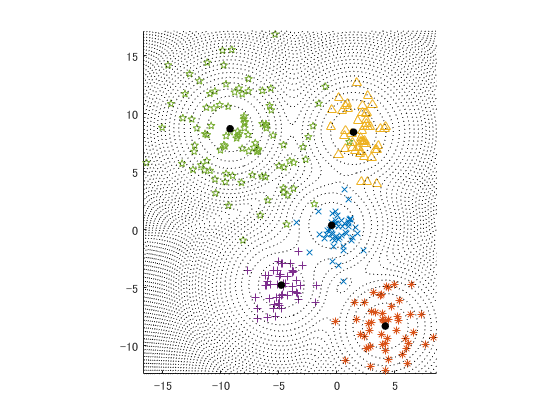
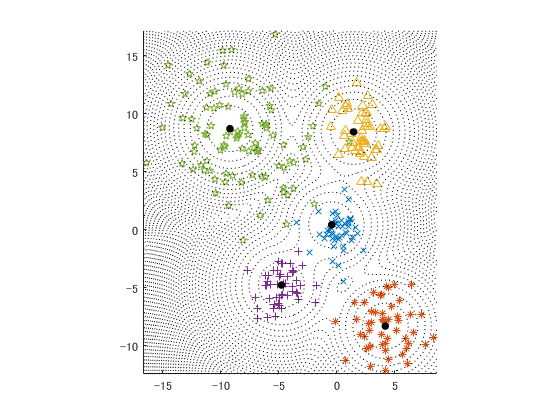
update quad_grad quad_val

diff --git a/plot_clustering.m b/plot_clustering.m
@@ -4,8 +4,8 @@ nu = 60;
 c = 5;
 h = 10;
 
-max_func.val = @max_val;
-max_func.grad = @max_grad;
+% max_func.val = @max_val;
+% max_func.grad = @max_grad;
 
 % max_func.val = @(X) extnorm_val(X,nu);
 % max_func.grad = @(X) extnorm_grad(X,nu);
@@ -13,22 +13,25 @@ max_func.grad = @max_grad;
 % max_func.val = @(X) entro_val(X,nu);
 % max_func.grad = @(X) entro_grad(X,nu);
 
-% max_func.val = @(X) quad_val(X,nu);
-% max_func.grad = @(X) quad_grad(X,nu);
+max_func.val = @(X) quad_val(X,nu);
+max_func.grad = @(X) quad_grad(X,nu);
 
 symb = ['x' '*' '^' '+' 'p'];
 
 best_obj = inf;
 best_V = zeros(size(X,2),c);
+best_misc = struct();
 for i=1:h
     [V,obj,misc] = c_means(X,c,max_func);
     if obj < best_obj
         best_obj = obj;
         best_V = V;
+        best_misc = misc;
     end
 end
 obj = best_obj;
 V = best_V;
+misc = best_misc;
 
 figure; hold on; axis equal;
 

diff --git a/plot_max_function.m b/plot_max_function.m
@@ -1,12 +1,12 @@
-nu = 2;
+nu = 60;
 
 z1 = linspace(-100,0);
 z2 = linspace(-100,0);
 [Z1,Z2] = meshgrid(z1,z2);
 Z = [Z1(:) Z2(:)];
 % g = entro_val(Z',nu);
-g = extnorm_val(Z',nu);
-% g = quad_val(Z',nu);
+% g = extnorm_val(Z',nu);
+g = quad_val(Z',nu);
 
 figure;
 contour(Z1, Z2, reshape(g,size(Z1)), 10,'Color', 'k','ShowText','on');

diff --git a/quad_grad.m b/quad_grad.m
@@ -3,6 +3,7 @@ function Y = quad_grad(X,nu) % nu > 0
 X = X/nu;
 [S,I] = sort(X,1,'descend');
 T = (1 >= reshape(sum(reshape(max(kron(ones(n,1),S) - kron(S,ones(n,1)),0),[n,n*m]),1),[n,m]));
+T(1,:) = true;
 J = max(T.*((1:n)'*ones(1,m)),[],1);
 mu = (sum(S.*T,1)-1)./J;
 Y = zeros(n,m);

diff --git a/quad_val.m b/quad_val.m
@@ -3,6 +3,7 @@ function v = quad_val(X,nu) % nu > 0
 X = X/nu;
 [S,I] = sort(X,1,'descend');
 T = (1 >= reshape(sum(reshape(max(kron(ones(n,1),S) - kron(S,ones(n,1)),0),[n,n*m]),1),[n,m]));
+T(1,:) = true;
 J = max(T.*((1:n)'*ones(1,m)),[],1);
 mu = (sum(S.*T,1)-1)./J;
 Y = zeros(n,m);

diff --git a/c_means.m b/c_means.m
@@ -18,7 +18,7 @@ obj = -sum(fmax_func.val(-T));
 
 h = 1;
 
-while pre_obj - obj > 1.0e-3*abs(obj) && h < max_itr
+while pre_obj - obj > 1.0e-8*abs(obj) && h < max_itr
     
     pre_obj = obj;
         
